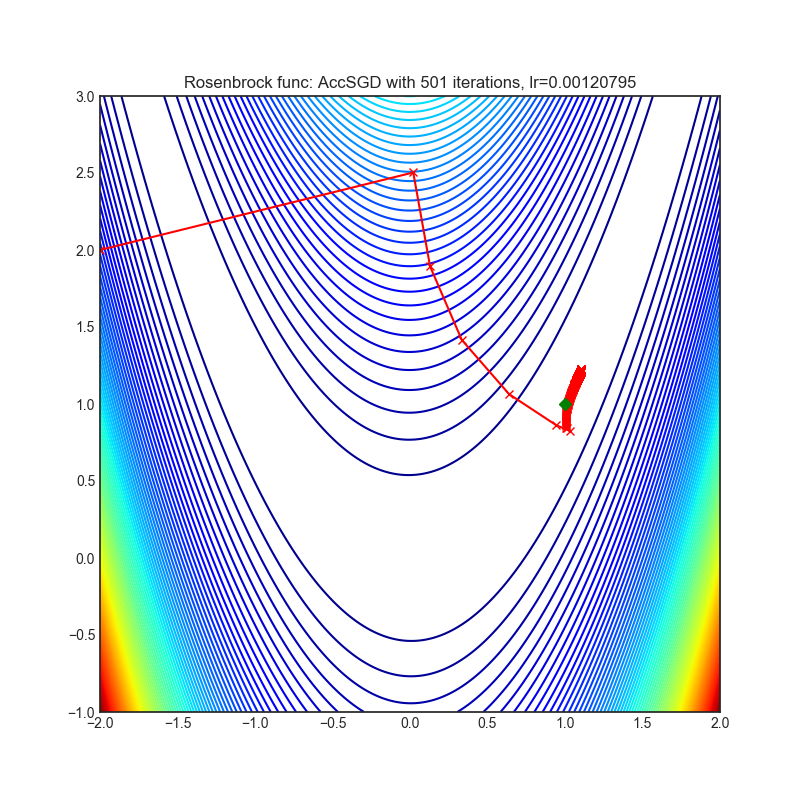
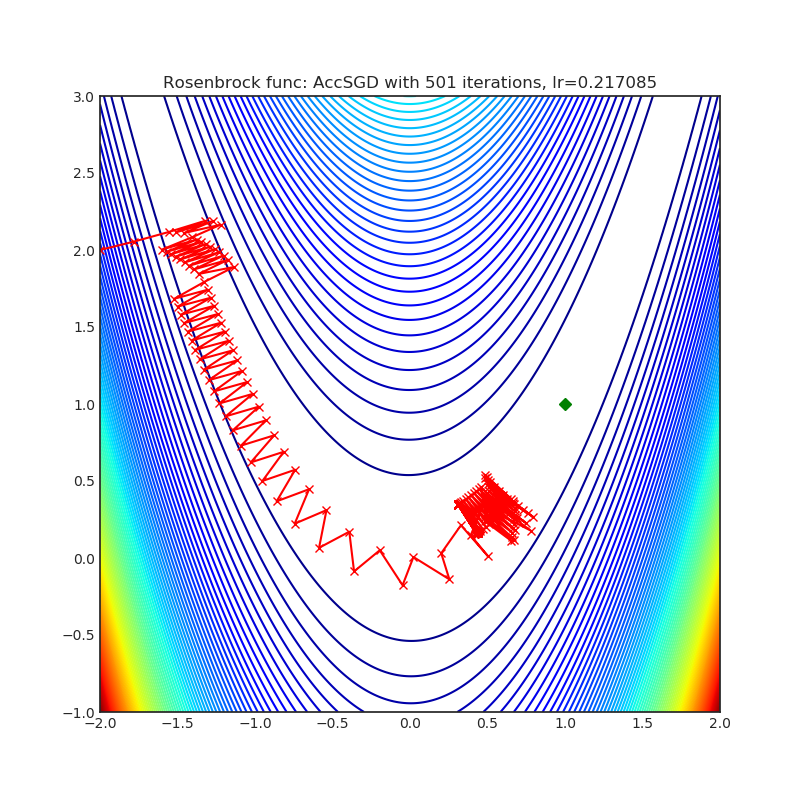
add grad clip

diff --git a/examples/viz_optimizers.py b/examples/viz_optimizers.py
@@ -39,6 +39,7 @@ def execute_steps(
         optimizer.zero_grad()
         f = func(x)
         f.backward(retain_graph=True)
+        torch.nn.utils.clip_grad_norm_(x, 1.0)
         optimizer.step()
         steps[:, i] = x.detach().numpy()
     return steps
@@ -154,31 +155,24 @@ if __name__ == '__main__':
     # Each optimizer has tweaked search space to produce better plots and
     # help to converge on better lr faster.
     optimizers = [
-        (optim.AccSGD, -8, -0.1),
-        (optim.AdaBound, -8, 0.7),
-        (optim.AdaMod, -8, 1.2),
-        (optim.DiffGrad, -8, 0.7),
-        (optim.Lamb, -8, 0.7),
-        (optim.NovoGrad, -6, -2.0),
-        (optim.RAdam, -8, 0.7),
-        (optim.SGDW, -8, -0.9),
-        (optim.Yogi, -8, 0.1),
+        (optim.AccSGD, -8, -0.4),
+        # (optim.AdaBound, -8, 0.3),
+        # (optim.AdaMod, -8, 0.2),
+        # (optim.DiffGrad, -8, 0.4),
+        # (optim.Lamb, -8, -2.9),
+        # (optim.NovoGrad, -8, -1.7),
+        # (optim.RAdam, -8, 0.5),
+        # (optim.SGDW, -8, -0.5),
+        # (optim.Yogi, -8, 0.1),
     ]
     execute_experiments(
-        optimizers, objective_rastrigin, rastrigin, plot_rastrigin, (-2.0, 3.5)
+        optimizers, 
+        objective_rastrigin, 
+        rastrigin, 
+        plot_rastrigin, 
+        (-2.0, 3.5),
     )
 
-    optimizers = [
-        (optim.AccSGD, -8, -0.1),
-        (optim.AdaBound, -8, 0.7),
-        (optim.AdaMod, -4, 1.0),
-        (optim.DiffGrad, -8, 0.2),
-        (optim.Lamb, -8, -0.5),
-        (optim.NovoGrad, -8, -1.0),
-        (optim.RAdam, -8, 0.7),
-        (optim.SGDW, -8, 0.7),
-        (optim.Yogi, -8, 0.1),
-    ]
     execute_experiments(
         optimizers,
         objective_rosenbrok,
